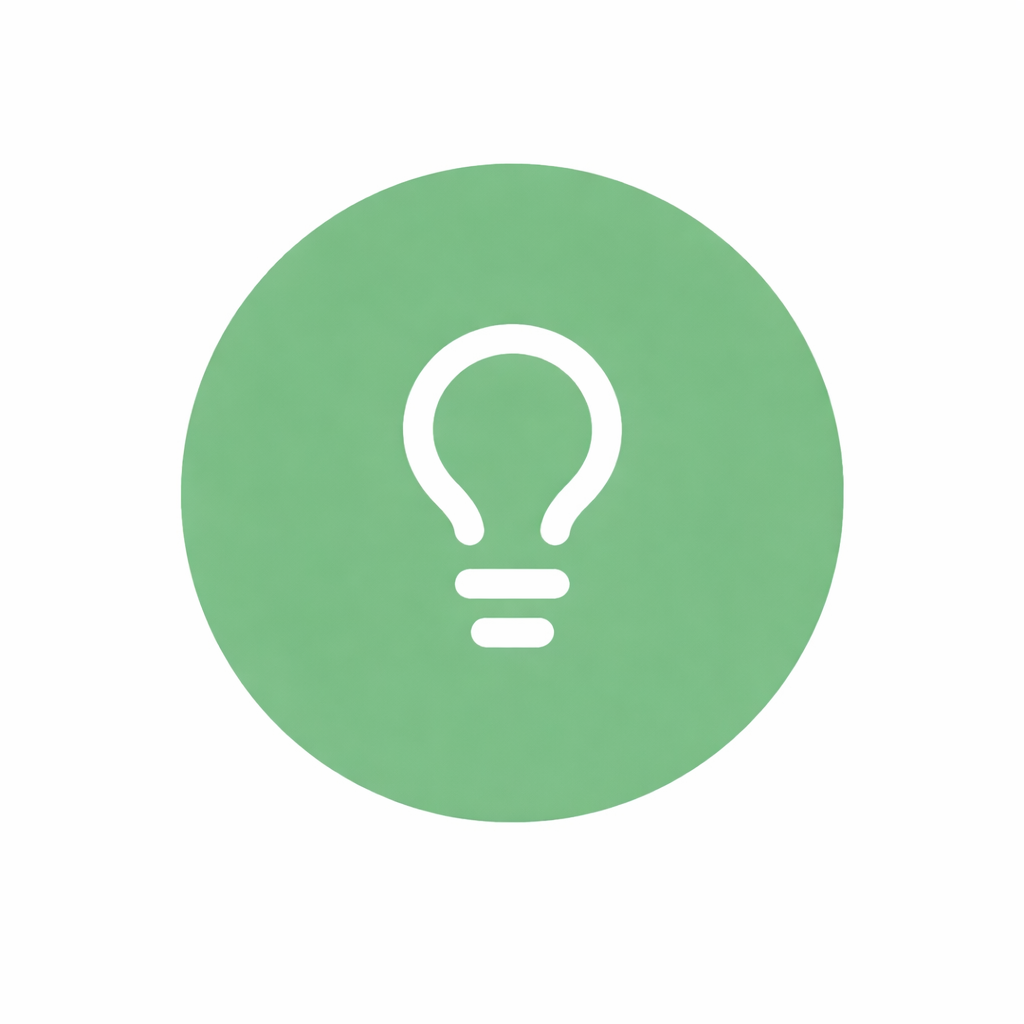
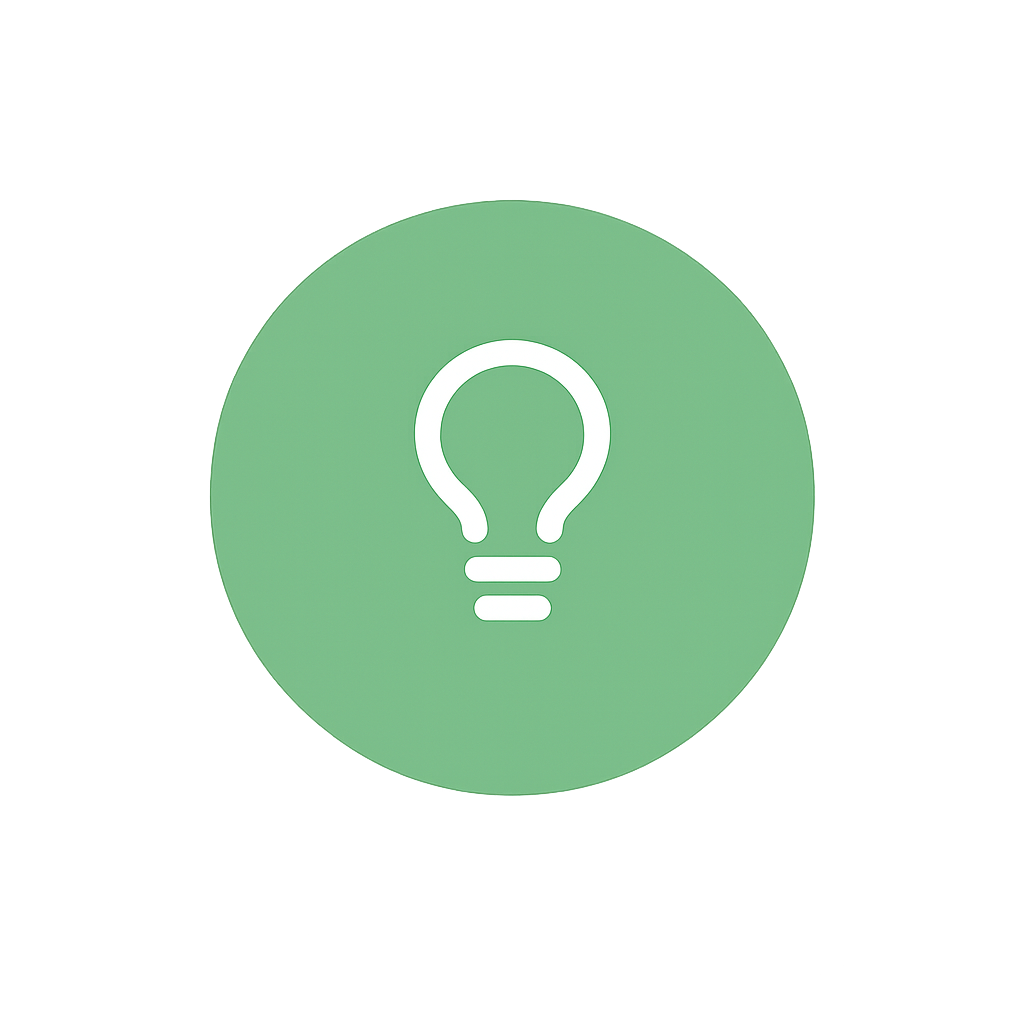
feat: お客様の声ページのアイコンを透過PNGに差し替え・img要素に変更

Changed region(s): [[0.1562, 0.1562, 0.8438, 0.8125], [0.375, 0.3125, 0.625, 0.6562]]

diff --git a/src/app/(main)/voice/page.tsx b/src/app/(main)/voice/page.tsx
@@ -215,12 +215,7 @@ function VoiceConcerns({ data }: { data?: VoiceConcernsData | null }) {
           <div className="flex justify-center gap-10 sm:gap-16">
             {approaches.map((a, i) => (
               <div key={i} className="flex flex-col items-center gap-2">
-                <div
-                  className="h-20 w-20 rounded-full bg-cover bg-center"
-                  style={{ backgroundImage: `url(${a.img})` }}
-                  aria-label={a.label}
-                  role="img"
-                />
+                <img src={a.img} alt={a.label} className="h-20 w-20" />
                 <p className="text-sm font-semibold text-green-600">{a.label}</p>
               </div>
             ))}
@@ -866,12 +861,7 @@ function VoiceSmallCTA({
           <div className="mt-8 flex justify-center gap-6 sm:gap-10">
             {items.map((a, i) => (
               <div key={i} className="flex flex-col items-center gap-2">
-                <div
-                  className="h-20 w-20 rounded-full bg-cover bg-center"
-                  style={{ backgroundImage: `url(${a.img})` }}
-                  aria-label={a.label}
-                  role="img"
-                />
+                <img src={a.img} alt={a.label} className="h-20 w-20" />
                 <p className="text-sm font-semibold text-green-600">{a.label}</p>
               </div>
             ))}
